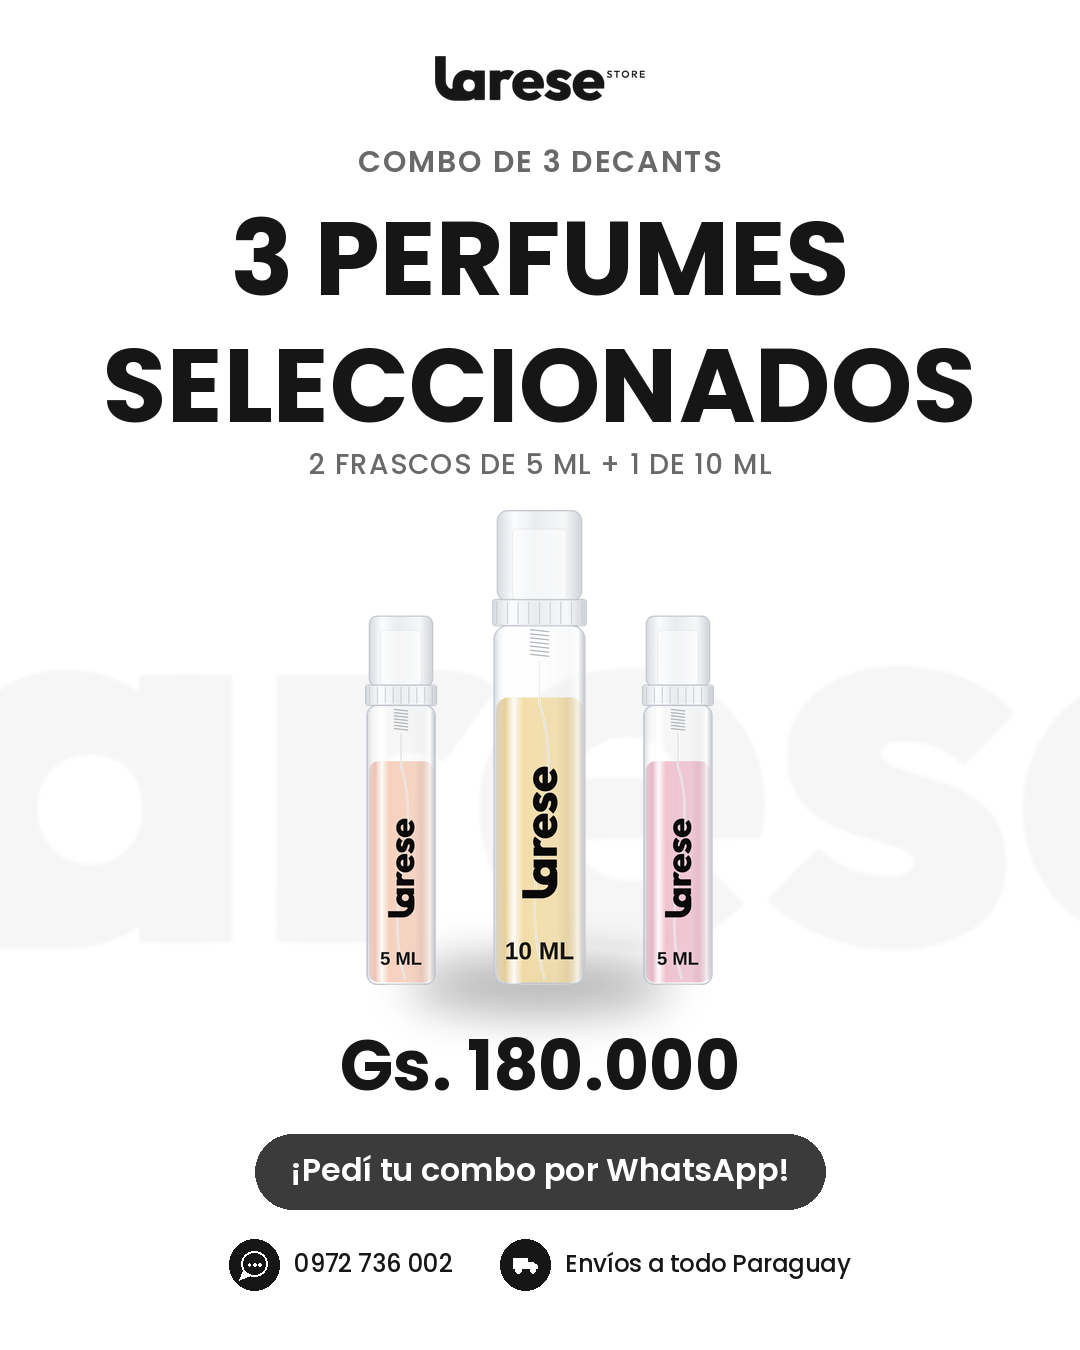
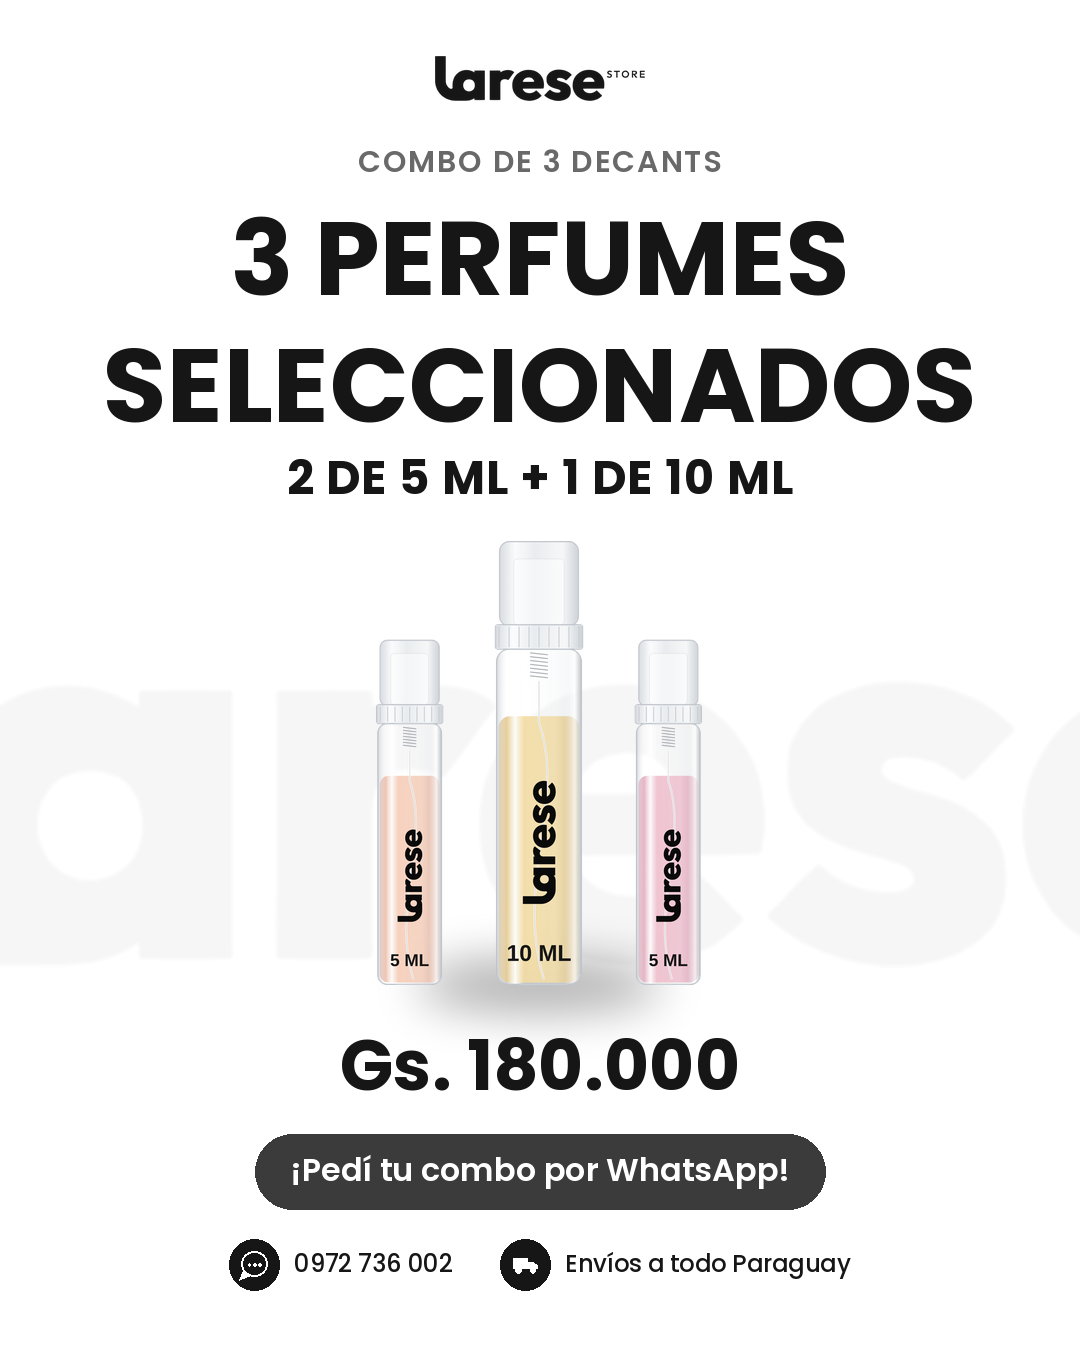
Highlight '2 de 5 ml + 1 de 10 ml' in combo ad
Add optional subtitulo_destacado to the white-background piece script:
the subtitle renders larger, bold and black.

Claude-Session: https://claude.ai/code/session_01DnzkNK1T1WT3rN6sKDYKp9

diff --git a/herramientas/pieza-fondo-blanco/scripts/crear_pieza.py b/herramientas/pieza-fondo-blanco/scripts/crear_pieza.py
@@ -18,6 +18,7 @@ Spec (JSON). Solo "formato" y "titulo" son obligatorios:
   "etiqueta": "Decant original",          # línea chica arriba del título
   "titulo": "Good Girl Blush",            # grande, va en mayúsculas
   "subtitulo": "Carolina Herrera · 3, 5 y 10 ml",
+  "subtitulo_destacado": true,            # opcional: subtítulo más grande, en negrita y negro
   "precio": 40000,                        # número en guaraníes -> "Gs. 40.000"
   "precio_prefijo": "Desde",              # opcional
   "precio_anterior": 50000,               # opcional, se muestra tachado
@@ -448,7 +449,10 @@ def armar(spec):
     arriba += alto_linea(ft, 0.86) * len(lt)
     fs, ls = None, []
     if spec.get("subtitulo"):
-        fs, ls, _ = ajustar(d, spec["subtitulo"].upper(), M["sub"], M["sub"] * 0.7, w - 180, 2, b"Medium", 0.04)
+        # "subtitulo_destacado": el subtítulo sale más grande, en negrita y en negro
+        tam_sub = M["sub"] * (1.7 if spec.get("subtitulo_destacado") else 1)
+        peso_sub = b"Bold" if spec.get("subtitulo_destacado") else b"Medium"
+        fs, ls, _ = ajustar(d, spec["subtitulo"].upper(), int(tam_sub), tam_sub * 0.7, w - 180, 2, peso_sub, 0.04)
         arriba += alto_linea(fs, 1.15) * len(ls) + 6
 
     # --- bloque de abajo (medición) ---
@@ -501,7 +505,7 @@ def armar(spec):
     if ls:
         y += 6
         for l in ls:
-            txt(d, cx, y, l, fs, GRIS, esp=M["sub"] * 0.04)
+            txt(d, cx, y, l, fs, TEXTO if spec.get("subtitulo_destacado") else GRIS, esp=M["sub"] * 0.04)
             y += alto_linea(fs, 1.15)
 
     # --- bloque de abajo ---
